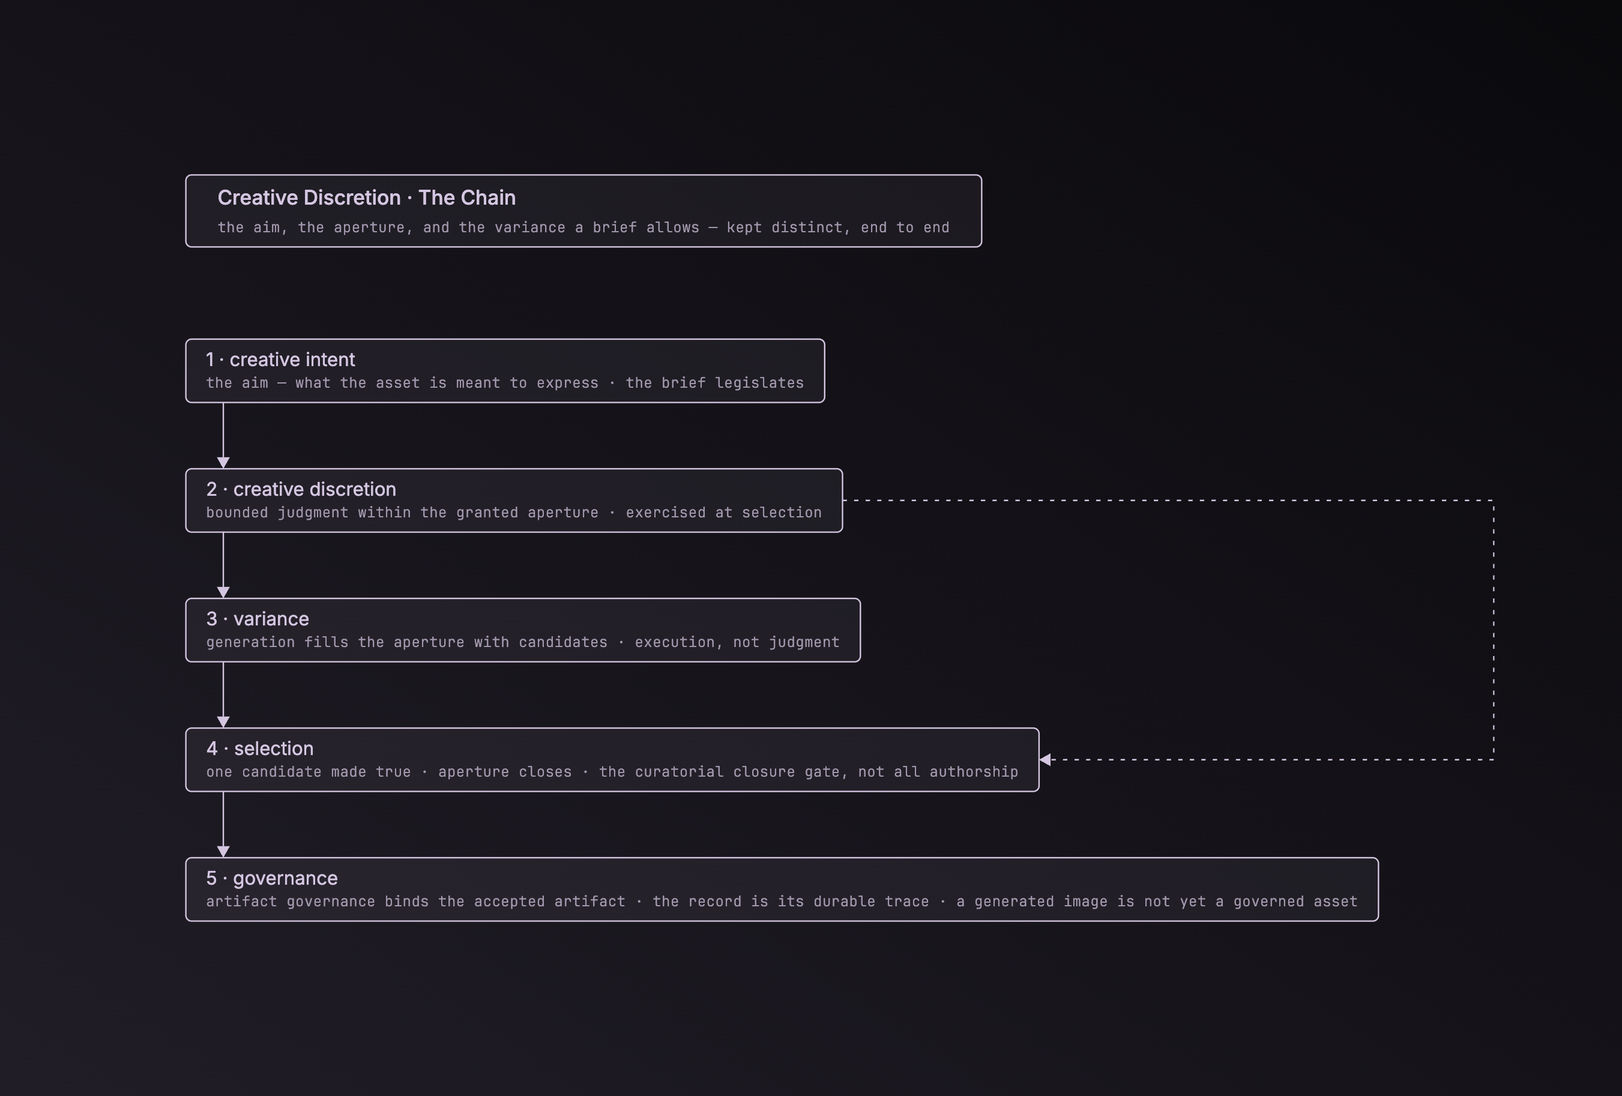
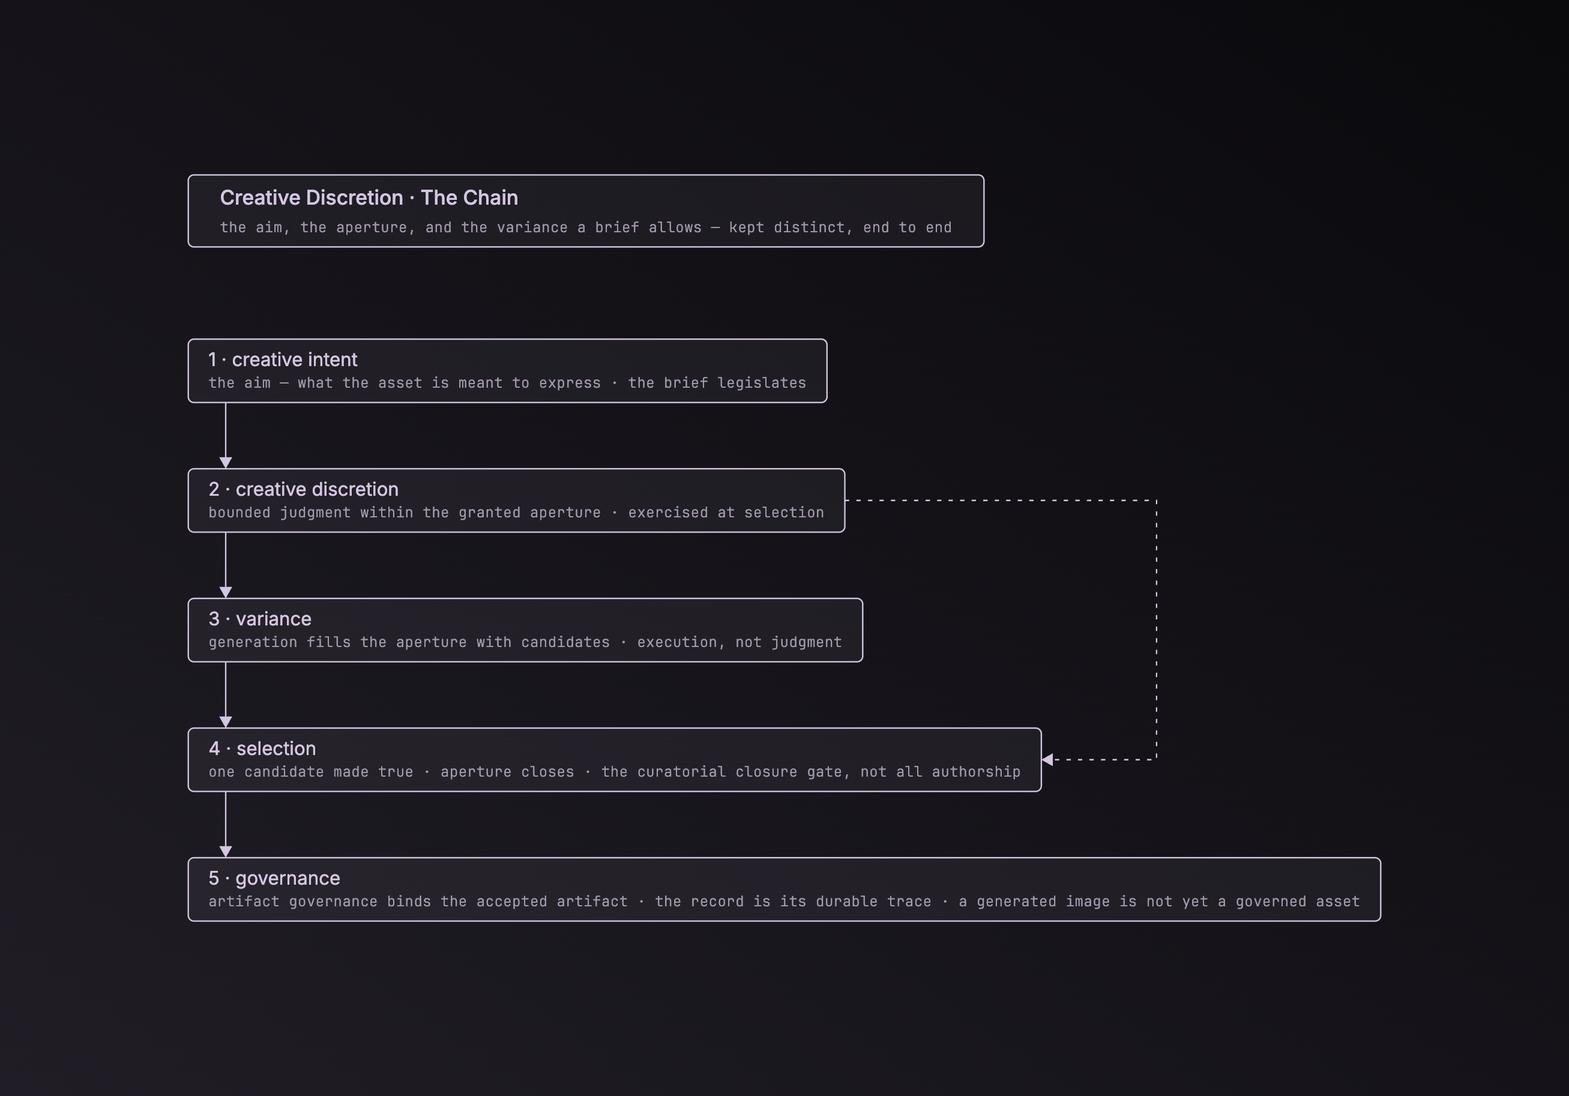
chore(diagrams): re-vendor SEQ engine @ 92a7f70 (DS #66 span-aware gutter) + tighter 2->4 PNG
DS #66 (follow-up to #64) makes secondaryEdges gutter span-aware: a skip
edge clears only the widest box in its own from..to span, not the globally
widest box. Resolves the far-out 2->4 routing (which detoured past node 5).

- Re-vendor diagrams-static-SEQ-engine.js byte-identical from DS @ 92a7f70
  (#64+#66 combined; md5 622df6c6 -> f48b0018; H/V/FLOW untouched, no fork).
- Source secondaryEdges 2->4 entry kept as-is: the span default already
  lands the riser between box 4 and box 5 (gx~246.6, vs box4 166.6 / box5
  300.1) -- no per-edge gutter override needed.
- Regenerate the committed chrome-free dark PNG with the tighter riser:
  2702x1826 -> 2614x1826 (the riser no longer extends past node 5, so the
  diagram width returns to the node-5-bound width). Correct fonts, no clip.
- README: SEQ engine pin 28ccc87 -> 92a7f70 + #66 span-aware note.
- Stamp unchanged (source-v6 // render-v6): the branch's v6 lands as the
  tighter form; the far-out v6 was never released to main.

Supersedes the #64-only engine + far-out PNG in this held branch. Rendered
+ verified light + dark. No fork.

diff --git a/docs/diagrams/diagrams-static-SEQ-engine.js b/docs/diagrams/diagrams-static-SEQ-engine.js
@@ -121,17 +121,39 @@
        Optional skip edges / return loops drawn as an orthogonal dashed path out
        into a right gutter — the primary linear connectors below are untouched.
        Source grammar (SEQ only):
-         secondaryEdges: [{ from, to, style?, route?, label? }]
+         secondaryEdges: [{ from, to, style?, route?, label?,
+                            gutterMode?, gutter? / gutterOffset? }]
        `from`/`to` match a node LABEL (string) or a STEP index (number: nodes[0]
        is the root, so index n = step n). `style:'solid'` drops the dashes.
+
+       Gutter routing:
+         `gutterMode:'span'` (DEFAULT) — the riser clears only the widest box
+           within the edge's own from…to span, so a short forward skip (e.g. 2→4)
+           routes just past the boxes it actually spans, NOT past the globally
+           widest box elsewhere in the diagram.
+         `gutterMode:'global'` — the riser clears the whole diagram's widest box
+           (the pre-span behavior). Return loops use this; set it per-edge, or
+           `TREE.gutterMode:'global'` for a diagram-wide default.
+         `gutter` / `gutterOffset` (px) — offset of the riser past its reference
+           box (default `LOOP_GAP`); per-edge lever for exact tuning.
+
        `loop:true` is sugar for last-step → first-step (the prior unmerged
-       return-loop behavior), honoring `loopGutter`. `route` is reserved
-       ('right-gutter' is the only routing today). Diagrams with no secondary
-       edges keep the exact original width — render-neutral. */
+       return-loop behavior); it routes `global` and honors `loopGutter`. `route`
+       is reserved ('right-gutter' is the only routing today). Diagrams with no
+       secondary edges keep the exact original width — render-neutral. */
     function resolveNode(ref) {
       if (ref == null) return null;
       if (typeof ref === 'number') return nodes[ref] || null;   // nodes[0]=root, nodes[n]=step n
       return nodes.find((n) => n.label === ref) || null;
+    }
+    // Widest box within an edge's own vertical span (from…to, inclusive) — what a
+    // 'span'-mode riser must clear, vs the global maxBoxW a 'global' riser clears.
+    function spanMaxBoxW(a, b) {
+      const i = nodes.indexOf(a), j = nodes.indexOf(b);
+      const lo = Math.min(i, j), hi = Math.max(i, j);
+      let w = 0;
+      for (let k = lo; k <= hi; k++) w = Math.max(w, nodes[k].boxW);
+      return w;
     }
     const secEdges = [];
     (TREE.secondaryEdges || []).forEach((e) => {
@@ -140,18 +162,54 @@
         console.warn('[SEQ engine] secondaryEdge skipped — unresolved/degenerate from/to:', e);
         return;
       }
-      secEdges.push({ from, to, dashed: e.style !== 'solid', label: e.label || null });
+      const gutter = e.gutter != null ? e.gutter
+                   : e.gutterOffset != null ? e.gutterOffset : LOOP_GAP;
+      const mode = e.gutterMode || TREE.gutterMode || 'span';
+      secEdges.push({ from, to, dashed: e.style !== 'solid', label: e.label || null, mode, gutter });
     });
     if (TREE.loop && nodes.length > 2) {
-      secEdges.push({ from: nodes[nodes.length - 1], to: nodes[1], dashed: true, label: null });
+      // return-loop sugar clears the whole diagram → 'global', honoring loopGutter.
+      secEdges.push({
+        from: nodes[nodes.length - 1], to: nodes[1], dashed: true, label: null,
+        mode: 'global', gutter: TREE.loopGutter != null ? TREE.loopGutter : LOOP_GAP,
+      });
     }
-    // Longer-span edges take the outer gutters so shorter ones nest inside.
-    secEdges.sort((a, b) => Math.abs(b.to.top - b.from.top) - Math.abs(a.to.top - a.from.top));
-    const baseGap = (TREE.loop && TREE.loopGutter != null) ? TREE.loopGutter : LOOP_GAP;
-    secEdges.forEach((e, i) => { e.gx = LEFT_PAD + maxBoxW + baseGap + i * GUTTER_STEP; });
+    // Base gutter column: past this edge's reference box (its own span, or global).
+    secEdges.forEach((e) => {
+      const refW = e.mode === 'global' ? maxBoxW : spanMaxBoxW(e.from, e.to);
+      e.gxBase = LEFT_PAD + refW + e.gutter;
+    });
+    // Nest overlapping edges: shorter spans take inner columns, longer spans wrap
+    // outside. Edges whose vertical spans don't overlap may share a column — no
+    // forced stagger, so a single skip edge stays tight against its own span.
+    secEdges.sort((a, b) =>
+      Math.abs(a.to.top - a.from.top) - Math.abs(b.to.top - b.from.top));
+    const yRange = (e) => [
+      Math.min(e.from.top, e.to.top),
+      Math.max(e.from.top + e.from.boxH, e.to.top + e.to.boxH),
+    ];
+    const placed = [];
+    secEdges.forEach((e) => {
+      const [eTop, eBot] = yRange(e);
+      let gx = e.gxBase, changed = true;
+      while (changed) {
+        changed = false;
+        for (const p of placed) {
+          const [pTop, pBot] = yRange(p);
+          const overlap = eTop < pBot && pTop < eBot;
+          if (overlap && Math.abs(gx - p.gx) < GUTTER_STEP - 0.5) {
+            gx = p.gx + GUTTER_STEP;
+            changed = true;
+          }
+        }
+      }
+      e.gx = gx;
+      placed.push(e);
+    });
 
     const width = secEdges.length
-      ? LEFT_PAD + maxBoxW + baseGap + (secEdges.length - 1) * GUTTER_STEP + 40
+      ? Math.max(LEFT_PAD + maxBoxW + PAGE_PAD_R,
+                 Math.max(...secEdges.map((e) => e.gx)) + 40)
       : LEFT_PAD + maxBoxW + PAGE_PAD_R;
 
     /* ---------- render ---------- */

diff --git a/docs/diagrams/README.md b/docs/diagrams/README.md
@@ -64,7 +64,7 @@ interactive/                                     AP-owned interactive surface (d
   ia-state-spine.css                             AP-owned interactive styling
 ```
 
-This folder hosts four **Class A** static diagram patterns inherited by reference from `design-system-ASK`: `diagram-static-H` (horizontal cascade), `diagram-static-V` (vertical centered spine; delivered at merge `1c565e2`), `diagram-static-SEQ` (left-aligned arrowed sequence; graduated upstream at `28aeb2d`, re-vendored here, SEQ engine later re-vendored @ `28ccc87` for DS #64 configurable `secondaryEdges` — used by the discretion-chain's dashed 2→4 edge), and `diagram-static-FLOW` (convergence flow with two render modes; graduated upstream from AP, re-vendored here, currently pinned at `98d6074`). `diagrams.css` and `export-png.js` are **byte-identical** across all four patterns, so this folder keeps **one shared copy** rather than vendoring each — a deliberate, documented choice. (`diagrams.css` re-vendored at **`b5d158e`** — DS #53, render-neutral: the diagram text roles `--diagram-ink/-muted/-faint` now **alias** the foundation `--fg-1/-2/-3` ramp instead of hardcoding `#6A637F`/`#827399`/faint, so a foundation foreground change propagates here automatically; structural line tokens stay diagram-local. Layout engines stay at `98d6074`; `export-png.js` stays at `957a025` (later re-vendored to `9b05d9a` for the DS #60 font-embed fix — see below). Pairs with the `_dsa-tokens/colors_and_type.css` #52 re-sync at `b5d158e`; light + dark sanity-rendered, render-vN stamps held.) (FLOW first vendored at `c87aa0d`, then re-synced to `98d6074` for two DS chrome corrections: light-mode strokes are **white** — the `c87aa0d` dark-ink change was reverted, so light mode matches the other patterns again — and the FLOW engine's junction dots were removed. `export-png.js` keeps the centered/negative-origin + landscape corrections from `c87aa0d`. Light-mode strokes white across all four patterns; dark mode and diagram text unchanged.) The shared `export-png.js` (static) and the interactive-spine `export-png.js` were **re-vendored from design-system-ASK @ `957a025`** (DS PR #50/#51) to add a second export: every diagram HUD now offers **PNG page** (the existing chromed 3840×2880 export, byte-stable) and **PNG diagram** (canvas-only, no chrome, natural aspect, on the gradient field). The diagram export is **additive** — it revises no existing committed raster. This retires the prior chrome-free-shell + headless two-build route for clean PNGs at the scaffold level; AP's own consumer normalization (regenerating the committed embedded PNGs via PNG diagram, collapsing the VPA two-build) is a separate, later AP-scoped pass. Both `export-png.js` copies were subsequently **re-vendored from design-system-ASK @ `9b05d9a`** (DS #60): the raster exporter now inlines the page's own `@font-face` woff2 as base64 inside the exported SVG, so the SVG-as-image raster resolves the real diagram fonts instead of a wider system fallback — fixing right-edge text clipping on machines where the diagram fonts are not system-installed. The committed `asset-pipeline-ASK_discretion-chain.png` (previously clipped) and `asset-pipeline-ASK_visual-payload-architecture.png` (previously rendered with fallback glyphs) rasters were regenerated with the fixed exporter — embedded JetBrains Mono + Inter, unchanged dimensions (2614×1826 / 3376×2966), dark PNG diagram export. Then **re-vendored @ `44c6074`** (DS #62, native `file://` export): a checked-in no-fetch font carrier (`_dsa-tokens/fonts-embedded.js`, loaded before `export-png.js` in every diagram HTML) lets a double-clicked `file://` page export correct PNGs offline; the exporter prefers the carrier, falls back to the http woff2 fetch, and fails closed if neither fully embeds. The successful http export output is unchanged, so the committed rasters stay correct — **no re-render**. Then **re-vendored @ `559d492`** (DS #63, PNG-*page* legend fidelity — resolves AP's own routed request): the page exporter now honors a legend row's live `white-space` — reading the computed style off the `.sub` and skipping the fixed `SUB_BUDGET` re-wrap for genuinely non-wrapping rows (`nowrap`/`pre`) — and collapses empty swatch/label columns when the whole legend lacks them. So the discretion-chain's simplified one-line ROLES row (PR #372: a single `.sub`, `white-space:nowrap`, no swatch/label) now exports on **one line, flush at the panel padding**, instead of wrapping at `SUB_BUDGET` behind a ~108px phantom swatch gap. This changes only the **PNG page** export chrome; the committed chrome-free **PNG diagram** rasters carry no legend and are **unaffected — no re-render** (the committed `asset-pipeline-ASK_discretion-chain.png` / `…_visual-payload-architecture.png` are PNG-*diagram* exports). Swatch/label legends (architecture-tree, ontology-tree, inheritance-spine, VPA) keep their columns and stay byte-identical. The interactive-spine exporter is a separate file and was **not** touched by #63. The four layout engines (`diagrams-static-H-engine.js` / `-V-` / `-SEQ-` / `-FLOW-`) are scaffold-owned and not edited locally; they are re-vendored by reference, never forked.
+This folder hosts four **Class A** static diagram patterns inherited by reference from `design-system-ASK`: `diagram-static-H` (horizontal cascade), `diagram-static-V` (vertical centered spine; delivered at merge `1c565e2`), `diagram-static-SEQ` (left-aligned arrowed sequence; graduated upstream at `28aeb2d`, re-vendored here, SEQ engine later re-vendored @ `92a7f70` for DS #64 configurable `secondaryEdges` + #66 span-aware gutter — used by the discretion-chain's dashed 2→4 edge), and `diagram-static-FLOW` (convergence flow with two render modes; graduated upstream from AP, re-vendored here, currently pinned at `98d6074`). `diagrams.css` and `export-png.js` are **byte-identical** across all four patterns, so this folder keeps **one shared copy** rather than vendoring each — a deliberate, documented choice. (`diagrams.css` re-vendored at **`b5d158e`** — DS #53, render-neutral: the diagram text roles `--diagram-ink/-muted/-faint` now **alias** the foundation `--fg-1/-2/-3` ramp instead of hardcoding `#6A637F`/`#827399`/faint, so a foundation foreground change propagates here automatically; structural line tokens stay diagram-local. Layout engines stay at `98d6074`; `export-png.js` stays at `957a025` (later re-vendored to `9b05d9a` for the DS #60 font-embed fix — see below). Pairs with the `_dsa-tokens/colors_and_type.css` #52 re-sync at `b5d158e`; light + dark sanity-rendered, render-vN stamps held.) (FLOW first vendored at `c87aa0d`, then re-synced to `98d6074` for two DS chrome corrections: light-mode strokes are **white** — the `c87aa0d` dark-ink change was reverted, so light mode matches the other patterns again — and the FLOW engine's junction dots were removed. `export-png.js` keeps the centered/negative-origin + landscape corrections from `c87aa0d`. Light-mode strokes white across all four patterns; dark mode and diagram text unchanged.) The shared `export-png.js` (static) and the interactive-spine `export-png.js` were **re-vendored from design-system-ASK @ `957a025`** (DS PR #50/#51) to add a second export: every diagram HUD now offers **PNG page** (the existing chromed 3840×2880 export, byte-stable) and **PNG diagram** (canvas-only, no chrome, natural aspect, on the gradient field). The diagram export is **additive** — it revises no existing committed raster. This retires the prior chrome-free-shell + headless two-build route for clean PNGs at the scaffold level; AP's own consumer normalization (regenerating the committed embedded PNGs via PNG diagram, collapsing the VPA two-build) is a separate, later AP-scoped pass. Both `export-png.js` copies were subsequently **re-vendored from design-system-ASK @ `9b05d9a`** (DS #60): the raster exporter now inlines the page's own `@font-face` woff2 as base64 inside the exported SVG, so the SVG-as-image raster resolves the real diagram fonts instead of a wider system fallback — fixing right-edge text clipping on machines where the diagram fonts are not system-installed. The committed `asset-pipeline-ASK_discretion-chain.png` (previously clipped) and `asset-pipeline-ASK_visual-payload-architecture.png` (previously rendered with fallback glyphs) rasters were regenerated with the fixed exporter — embedded JetBrains Mono + Inter, unchanged dimensions (2614×1826 / 3376×2966), dark PNG diagram export. Then **re-vendored @ `44c6074`** (DS #62, native `file://` export): a checked-in no-fetch font carrier (`_dsa-tokens/fonts-embedded.js`, loaded before `export-png.js` in every diagram HTML) lets a double-clicked `file://` page export correct PNGs offline; the exporter prefers the carrier, falls back to the http woff2 fetch, and fails closed if neither fully embeds. The successful http export output is unchanged, so the committed rasters stay correct — **no re-render**. Then **re-vendored @ `559d492`** (DS #63, PNG-*page* legend fidelity — resolves AP's own routed request): the page exporter now honors a legend row's live `white-space` — reading the computed style off the `.sub` and skipping the fixed `SUB_BUDGET` re-wrap for genuinely non-wrapping rows (`nowrap`/`pre`) — and collapses empty swatch/label columns when the whole legend lacks them. So the discretion-chain's simplified one-line ROLES row (PR #372: a single `.sub`, `white-space:nowrap`, no swatch/label) now exports on **one line, flush at the panel padding**, instead of wrapping at `SUB_BUDGET` behind a ~108px phantom swatch gap. This changes only the **PNG page** export chrome; the committed chrome-free **PNG diagram** rasters carry no legend and are **unaffected — no re-render** (the committed `asset-pipeline-ASK_discretion-chain.png` / `…_visual-payload-architecture.png` are PNG-*diagram* exports). Swatch/label legends (architecture-tree, ontology-tree, inheritance-spine, VPA) keep their columns and stay byte-identical. The interactive-spine exporter is a separate file and was **not** touched by #63. The four layout engines (`diagrams-static-H-engine.js` / `-V-` / `-SEQ-` / `-FLOW-`) are scaffold-owned and not edited locally; they are re-vendored by reference, never forked.
 
 The **architecture diagrams** depict **different axes** of the architecture and must not be collapsed into one picture (basis: [`docs/layer-disambiguation-note-v1.md`](../layer-disambiguation-note-v1.md)):
 
@@ -74,7 +74,7 @@ The **architecture diagrams** depict **different axes** of the architecture and 
 
 The two IA diagrams (ontology, inheritance) are **structural** maps — they assert **no** maturity state (no earned/held/legacy); their legends are repurposed as reading notes, and architectural nuance rides in the node notes. Maturity-state semantics belong to the separate interactive surface below.
 
-The **discretion chain** (`diagram-static-SEQ`) is a **different class** — an illustrative **doctrine** diagram, not an architecture-axis diagram. It renders the chain the architecture preserves (creative intent → creative discretion → variance → selection → governance; basis: [`docs/creative-discretion-doctrine-v1.md`](../creative-discretion-doctrine-v1.md)), as an ordered sequence of steps joined by arrows. Because it depicts doctrine rather than repo/architecture state, it refreshes when the **doctrine chain** changes, not on the milestone-/structure-coupled cadence of the architecture diagrams. A committed PNG (`asset-pipeline-ASK_discretion-chain.png`) is kept alongside the HTML for direct markdown/GitHub embedding — a deliberate exception to the otherwise HTML-only convention here. The HTML + source data remain **canonical**; the PNG is a supplemental presentation raster, not source truth. Provenance, stated plainly: this PNG is the chrome-free **dark** render produced by the exporter's **PNG diagram** export (canvas-only, natural aspect). The HTML keeps full chrome and both export controls. **DS #64 secondary edge:** the diagram carries a dashed skip edge from `2 · creative discretion` → `4 · selection` (muted / gutter-routed, via `secondaryEdges` in the source data) — the doctrinal *"exercised at selection"* relation, made visible without disturbing the five-link chain; because the edge is diagram content (unlike the ROLES-panel chrome cleanup), the committed raster was regenerated (now 2702×1826; `source-v6 // render-v6`). To refresh it, **serve the folder over http** (PNG export requires http, not `file://` — see *How to use*) and use the **PNG diagram** button (or the `?export=png-diagram` route).
+The **discretion chain** (`diagram-static-SEQ`) is a **different class** — an illustrative **doctrine** diagram, not an architecture-axis diagram. It renders the chain the architecture preserves (creative intent → creative discretion → variance → selection → governance; basis: [`docs/creative-discretion-doctrine-v1.md`](../creative-discretion-doctrine-v1.md)), as an ordered sequence of steps joined by arrows. Because it depicts doctrine rather than repo/architecture state, it refreshes when the **doctrine chain** changes, not on the milestone-/structure-coupled cadence of the architecture diagrams. A committed PNG (`asset-pipeline-ASK_discretion-chain.png`) is kept alongside the HTML for direct markdown/GitHub embedding — a deliberate exception to the otherwise HTML-only convention here. The HTML + source data remain **canonical**; the PNG is a supplemental presentation raster, not source truth. Provenance, stated plainly: this PNG is the chrome-free **dark** render produced by the exporter's **PNG diagram** export (canvas-only, natural aspect). The HTML keeps full chrome and both export controls. **DS #64 + #66 secondary edge:** the diagram carries a dashed skip edge from `2 · creative discretion` → `4 · selection` (muted / gutter-routed, via `secondaryEdges` in the source data) — the doctrinal *"exercised at selection"* relation, made visible without disturbing the five-link chain. DS #66 makes the gutter **span-aware**, so the riser routes **between box 4 and box 5** (clearing only the boxes the edge spans, not the globally widest box, node 5). Because the edge is diagram content (unlike the ROLES-panel chrome cleanup), the committed raster was regenerated (2614×1826; `source-v6 // render-v6`). To refresh it, **serve the folder over http** (PNG export requires http, not `file://` — see *How to use*) and use the **PNG diagram** button (or the `?export=png-diagram` route).
 
 The **visual payload architecture** (`diagram-static-FLOW`) is a third class again — an illustrative **architecture companion** diagram of the *convergence flow* a commercial image's visual decisions move through: a reference carrier qualifying a normative-source field, the field converging into a resolved slot specification, realization (candidate image ‖ set relations) reconverging into conformance, then selection → governance → governed asset, with a return loop where a governed output can later re-enter as a reference carrier (basis: [`docs/visual-payload-architecture-v2.md`](../visual-payload-architecture-v2.md)). It is the first consumer of the `diagram-static-FLOW` scaffold AP graduated upstream and re-vendored here (pinned `98d6074`). **One full-chrome diagram HTML** (`…_visual-payload-architecture.html`): the repo-native explanatory artifact — header / legend / HUD / caption plus a hover/click side panel carrying each node's definition / example / "not-this" note, and both `PNG page` / `PNG diagram` export controls. (The earlier chrome-free static export shell + separate `.interactive.html` build is retired now that the shared exporter emits a clean `PNG diagram` directly.) A committed PNG (`asset-pipeline-ASK_visual-payload-architecture.png`, the chrome-free **dark** render via the `PNG diagram` export) is kept alongside for direct markdown/GitHub embedding (same deliberate exception as the discretion chain); it is embedded in [`docs/visual-payload-architecture-v2.md`](../visual-payload-architecture-v2.md). Both `-light` and `-dark` render off the same source model; the repo embeds the **dark** render per the theme-by-embedding-surface convention (below). The HTML + source data remain **canonical**; the PNG is a supplemental raster. Because it is coupled to the VPA topology (`docs/visual-payload-architecture-v2.md`) rather than to plateau / repo-architecture state, it refreshes when that topology changes, not on the milestone cadence. To refresh the PNG, **serve the folder over http** (export requires http, not `file://` — see *How to use*) and use the **PNG diagram** button (or the `?export=png-diagram` route).
 
